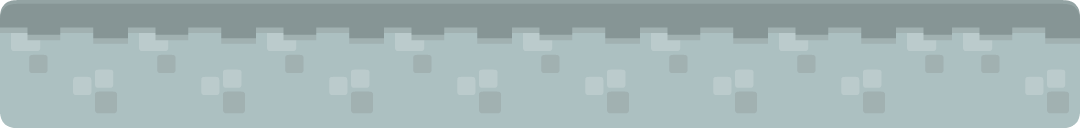
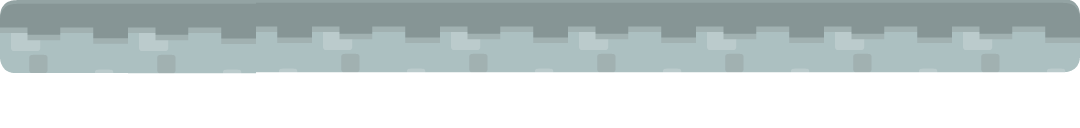
[배환웅] 발판 이미지 및 간격 수정

diff --git a/PointGame/Assets/Script/Game/GamePlayManager.cs b/PointGame/Assets/Script/Game/GamePlayManager.cs
@@ -349,7 +349,7 @@ public void CheckGameOver()
 
         var nextPos = BlockList[posIndex].transform.localPosition;
         if(zeroPos == false)
-            BlockList[index].gameObject.transform.localPosition = new Vector3(0, nextPos.y + 3.5f);
+            BlockList[index].gameObject.transform.localPosition = new Vector3(0, nextPos.y + 2.8f);
         else
             BlockList[index].gameObject.transform.localPosition = new Vector3(0, 1f);
 
